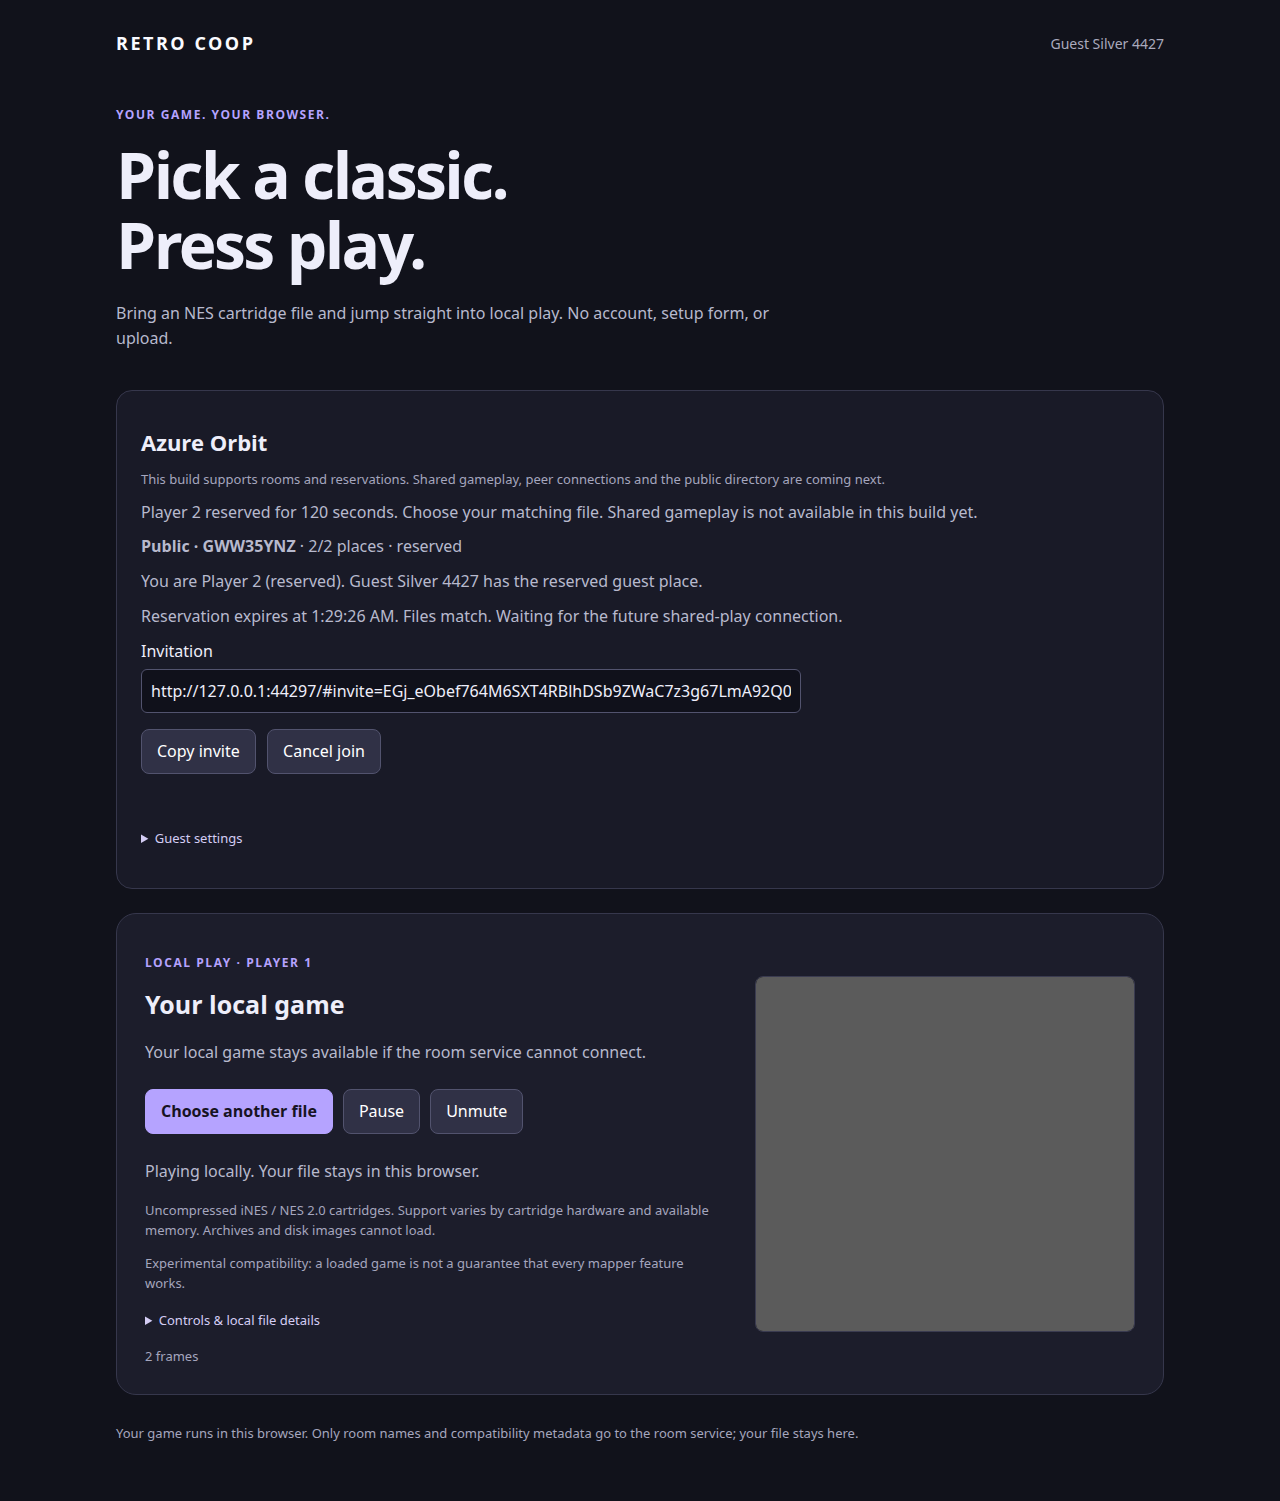
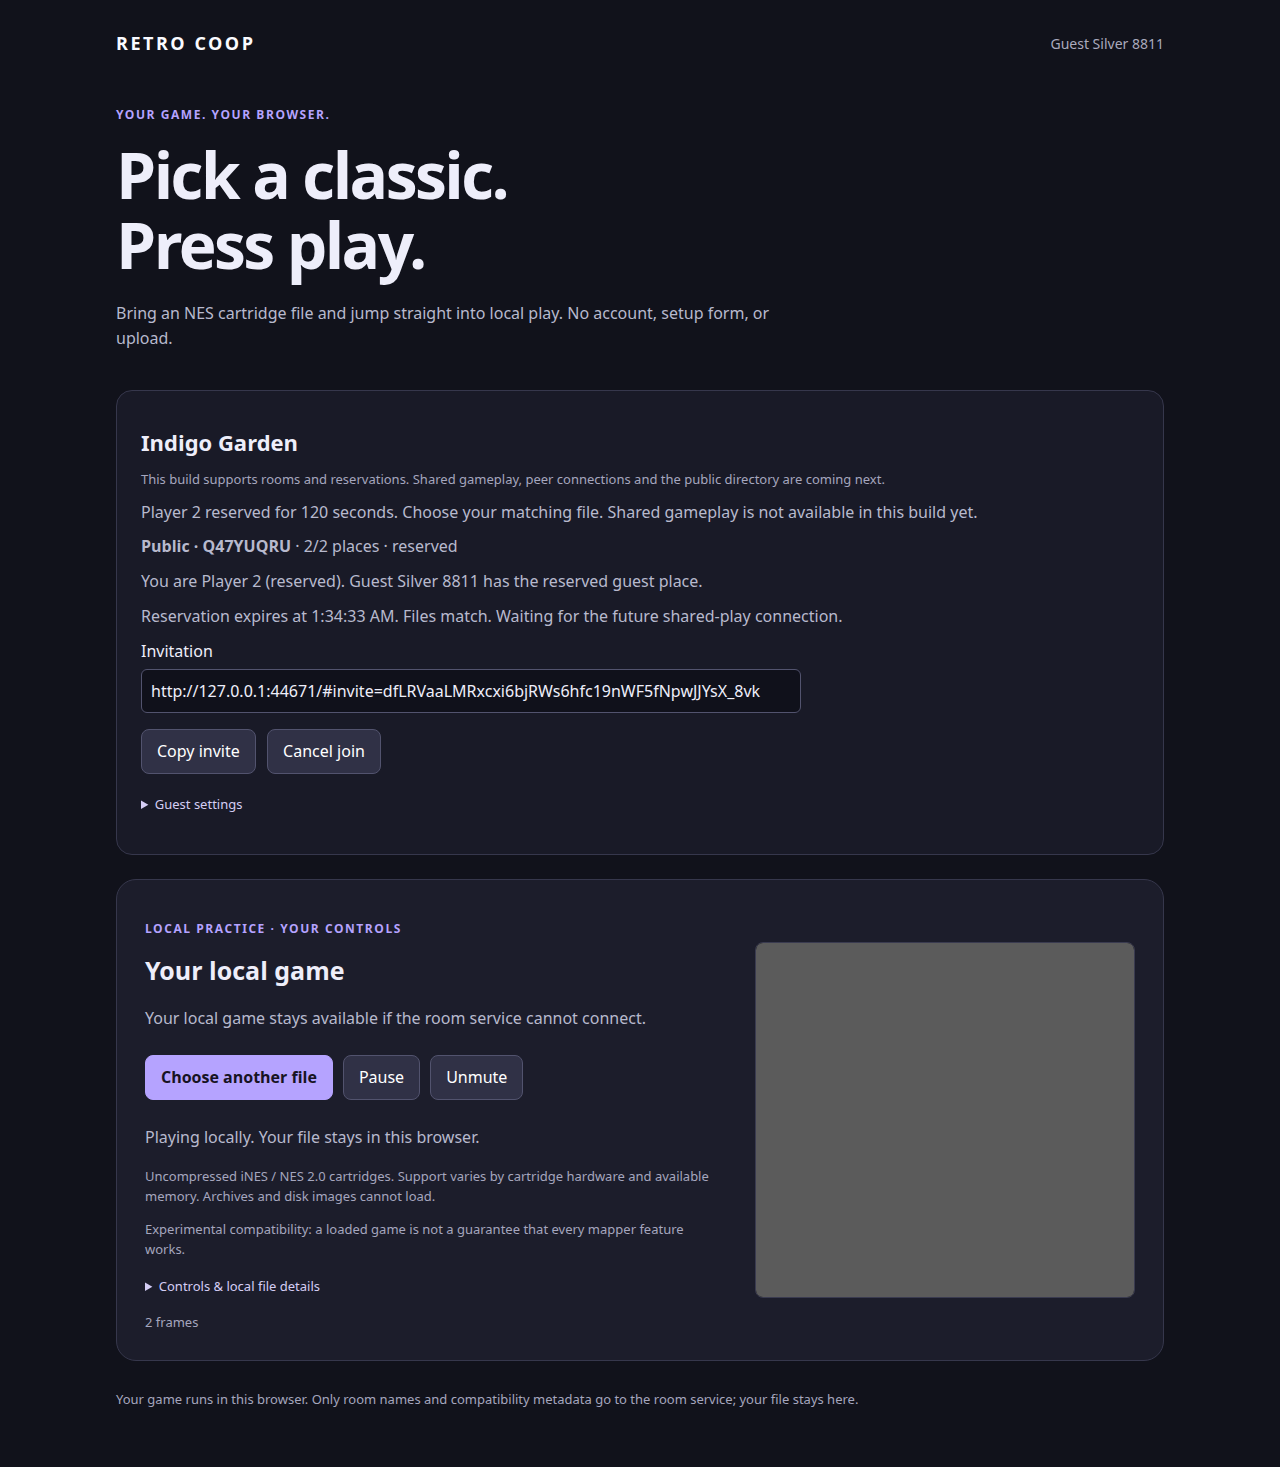
fix: preserve hosted rooms on matching-file recovery and bound floods

diff --git a/apps/client/src/style.css b/apps/client/src/style.css
@@ -1,3 +1,5 @@
 :root{font-family:Inter,ui-sans-serif,system-ui,sans-serif;color:#eeeefa;background:#11121b;font-synthesis:none;line-height:1.55}*{box-sizing:border-box}body{margin:0}main{max-width:1120px;margin:auto;padding:30px 36px}header{display:flex;justify-content:space-between;gap:16px;align-items:center;color:#aaaabd;font-size:14px}.brand{font-size:18px;letter-spacing:.14em;color:#fafaff;text-decoration:none;font-weight:800}.intro{margin:74px 0 40px;max-width:660px}.eyebrow{color:#b5a3ff;text-transform:uppercase;letter-spacing:.13em;font-size:12px;font-weight:750}h1{font-size:clamp(38px,6vw,64px);line-height:1.08;letter-spacing:-.04em;margin:16px 0 22px}p{color:#b7b9cd}h2{font-size:25px;margin:10px 0}.panel{border:1px solid #36374c;background:#1c1d2b;border-radius:20px;padding:28px;display:grid;grid-template-columns:1fr 320px;gap:34px}.controls{display:flex;gap:10px;flex-wrap:wrap;margin:25px 0}button{font:inherit;border:1px solid #52536e;background:#303146;color:white;padding:9px 15px;border-radius:8px;cursor:pointer}button:first-child{background:#b5a3ff;color:#171323;font-weight:750;border-color:#b5a3ff}button:disabled{opacity:.45;cursor:default}:focus-visible{outline:3px solid #d2c7ff;outline-offset:4px}canvas{width:100%;align-self:center;aspect-ratio:256/240;background:#0a0b10;image-rendering:pixelated;border-radius:8px;border:1px solid #3a3b50}.hint,output,footer{font-size:13px;color:#a5a6be}footer{margin:28px 0}output{font-variant-numeric:tabular-nums}@media(max-width:720px){main{padding:22px}.intro{margin-top:48px}.panel{grid-template-columns:1fr;padding:22px;gap:20px}canvas{max-width:384px;justify-self:center}header span{font-size:12px}}
 .panel.drag{border-color:#b5a3ff;box-shadow:0 0 0 3px #b5a3ff44}.screen{position:relative;align-self:center}.screen canvas{display:block}.screen>p{position:absolute;inset:34% 10% auto;text-align:center;letter-spacing:.08em;font-size:12px;pointer-events:none}.screen>p span{font-size:11px;letter-spacing:0;color:#898ba7}details{margin:16px 0;font-size:13px}summary{cursor:pointer;color:#d4cdf4}dl{font-size:12px}dt{color:#aaaabd;margin-top:10px}dd{margin:2px 0;overflow-wrap:anywhere}output{display:block;margin-top:12px}.panel{grid-template-columns:minmax(0,1fr) minmax(240px,380px)}@media(max-width:720px){.panel{grid-template-columns:minmax(0,1fr)}.screen{width:100%;max-width:384px;justify-self:center}header{flex-wrap:wrap}}
 .room-panel{border:1px solid #36374c;border-radius:16px;padding:24px;margin:0 0 24px;background:#191a27}.room-panel h2{font-size:22px}.room-panel p{margin:10px 0}.room-panel input:not([type=checkbox]){display:block;width:100%;max-width:660px;background:#10111b;color:#eeeefa;border:1px solid #52536e;padding:9px;border-radius:6px;font:inherit;margin:5px 0 12px}.room-panel button{margin:4px 8px 4px 0}.visibility{display:flex;align-items:center;gap:8px}.room-panel details>label{display:block;margin-top:14px}.room-panel details>label.visibility{display:flex}.intro{margin-top:48px}
+
+.room-panel .controls:empty{display:none}

diff --git a/apps/client/src/main.tsx b/apps/client/src/main.tsx
@@ -22,7 +22,7 @@ function App() {
   <section className="intro"><p className="eyebrow">Your game. Your browser.</p><h1>Pick a classic.<br/>Press play.</h1><p>Bring an NES cartridge file and jump straight into local play. No account, setup form, or upload.</p></section>
   <RoomPanel ref={rooms} fingerprint={state.fingerprint} onNickname={setGuest}/>
   <section className={`panel ${drag ? 'drag' : ''}`} aria-labelledby="player-title" onDragOver={event => {event.preventDefault(); setDrag(true);}} onDragLeave={event => {if(!event.currentTarget.contains(event.relatedTarget as Node)) setDrag(false);}} onDrop={event => {event.preventDefault();setDrag(false);if(event.dataTransfer.files.length === 1) load(event.dataTransfer.files[0]); else runtime.current?.rejectSelection('Choose one NES cartridge at a time. Your previous game is preserved.');}}>
-   <div><p className="eyebrow">Local play · Player 1</p><h2 id="player-title">{state.loaded ? 'Your local game' : 'Drop your NES game here'}</h2>
+   <div><p className="eyebrow">Local practice · your controls</p><h2 id="player-title">{state.loaded ? 'Your local game' : 'Drop your NES game here'}</h2>
    <p>{state.loaded ? 'Your local game stays available if the room service cannot connect.' : 'Choose a file, or drop it anywhere in this panel. Your file stays on this device.'}</p>
    <input ref={picker} type="file" accept=".nes" hidden aria-label="NES cartridge file" onChange={event => load(event.target.files?.[0])}/>
    <div className="controls"><button onClick={choose}>{state.loaded ? 'Choose another file' : 'Choose NES file'}</button>{state.loading && <button onClick={() => {runtime.current?.cancel();rooms.current?.cancelCreation();}}>Cancel loading</button>}<button disabled={!state.loaded || state.loading} onClick={() => state.running ? runtime.current?.pause() : runtime.current?.resume()}>{state.running ? 'Pause' : 'Resume'}</button><button aria-pressed={muted} onClick={() => {const value = !muted;setMuted(value);runtime.current?.setMuted(value);}}>{muted ? 'Unmute' : 'Mute'}</button></div>

diff --git a/apps/client/src/room-client.ts b/apps/client/src/room-client.ts
@@ -1,4 +1,5 @@
 import { clientConfig } from './config.ts';
+import {matchesFile} from '../../../packages/contracts/src/rooms.ts';
 import type { Fingerprint, RoomCommand, RoomData, RoomEvent, RoomPreview, RoomView, SessionInfo, Visibility } from '../../../packages/contracts/src/rooms.ts';
 type Command = RoomCommand extends infer T ? T extends RoomCommand ? Omit<T,'requestId'> : never : never;
 export type RoomState = { room?:RoomView; preview?:RoomPreview; session?:SessionInfo; status:string; busy:boolean; connected:boolean; retryAfterMs?:number; needsNewGuest?:boolean };
@@ -70,7 +71,11 @@ export class RoomClient {
   this.publish({busy:true,status:'Creating your room…',retryAfterMs:undefined});
   try {
    await this.connect();if(this.intent !== intent || generation !== this.generation) return;
-   if(this.state.room) {if(this.state.room.role !== 'host') return;await this.request({type:'close'});if(this.intent !== intent) return;}
+   if(this.state.room) {
+    if(this.state.room.role !== 'host') {this.intent = undefined;this.publish({busy:false});return;}
+    if(matchesFile(this.state.room.fingerprint,fingerprint)) {this.intent = undefined;this.publish({busy:false,status:'Your local file matches the existing room. Its guest reservation is preserved.'});return;}
+    await this.request({type:'close'});if(this.intent !== intent) return;
+   }
    await this.request({type:'create',intent,visibility,fingerprint});
    if(this.intent !== intent) {await this.request({type:'cancelCreate',intent});return;}
    const data = await this.request({type:'confirmCreate',intent});

diff --git a/apps/coordinator/src/rooms.test.ts b/apps/coordinator/src/rooms.test.ts
@@ -96,6 +96,7 @@ test('real WebSockets enforce origin/auth/schema and atomic reservations across 
   const race = await Promise.all([a,b].map(socket=>request(socket,{type:'join',invite})));assert.equal(race.filter(result=>result.ok).length,1);
   const attacker = await connect(), closed = once(attacker,'close');attacker.send(Buffer.from('binary ROM'));assert.equal((await closed)[0],1008);
   const forged = await connect(), invalid = once(forged,'close');forged.send(JSON.stringify({type:'hello',requestId:randomUUID(),filename:'private.nes'}));assert.equal((await invalid)[0],1008);
+  const flood = await connect(), flooded = once(flood,'close');for(let i=0;i<121;i++) flood.send(JSON.stringify({type:'hello',requestId:randomUUID()}));assert.equal((await flooded)[0],1008);
   const large = await connect(), over = once(large,'close');large.send('x'.repeat(5000));assert.equal((await over)[0],1009);
  } finally {for(const client of clients) client.terminate();await shutdown(server);}
 });

diff --git a/apps/coordinator/src/server.ts b/apps/coordinator/src/server.ts
@@ -33,10 +33,13 @@ export function createCoordinator(options: {origins?:string[]; rooms?:Rooms} = {
  });
  sockets.on('connection',ws => {
   let token:string|undefined;
+  let windowStarted = Date.now(), received = 0;
   const send:Sender = (event:RoomEvent) => {if(ws.readyState !== WebSocket.OPEN) return;if(ws.bufferedAmount > 64*1024) {ws.terminate();return;}ws.send(JSON.stringify(event));};
   const authDeadline = setTimeout(()=>ws.close(1008,'Authenticate first'),5000);authDeadline.unref();
   ws.on('error',()=>{}); // Protocol errors close the socket; content is never logged.
   ws.on('message',(raw,binary) => {
+   if(Date.now()-windowStarted >= 10_000) {windowStarted = Date.now();received = 0;}
+   if(++received > 120) {ws.close(1008,'Message rate exceeded');return;}
    let command;
    try {if(!binary) command = parseRoomCommand(JSON.parse(raw.toString()));}catch{}
    if(!command) {ws.close(1008,'Invalid room message');return;}

diff --git a/scripts/rooms/browser_smoke.py b/scripts/rooms/browser_smoke.py
@@ -56,6 +56,14 @@ try:
         first.set_input_files('input[type=file]',{'name':'PRIVATE-GUEST-FILENAME.nes','mimeType':'application/octet-stream','buffer':rom})
         first.wait_for_function("document.querySelector('[data-testid=room-view]').textContent.includes('Files match')")
         first.screenshot(path=str(output.with_suffix('.guest.png')),full_page=True)
+        # Reloading the host and choosing the same file preserves the room and original guest lease.
+        original_reservation=first.get_by_test_id('room-view').inner_text().split('Reservation expires at ')[1].split('.')[0]
+        host.reload()
+        host.set_input_files('input[type=file]',{'name':'PRIVATE-RELOADED.nes','mimeType':'application/octet-stream','buffer':rom})
+        host.wait_for_function("document.querySelector('[data-testid=room-status]').textContent.includes('existing room')")
+        assert host.get_by_label('Room invitation',exact=True).input_value()==invitation
+        assert original_reservation in host.get_by_test_id('room-view').inner_text()
+        assert first.get_by_test_id('room-view').count()==1
         first.get_by_role('button',name='Cancel join',exact=True).click()
         first.get_by_test_id('room-view').wait_for(state='detached')
         second.get_by_role('button',name='Retry join / Join',exact=True).click()
@@ -124,7 +132,7 @@ try:
         assert not any(key in command for command in frames for key in ['rom','filename','save','state'])
         # Raw tokens are intentionally excluded from published evidence.
         counts={kind:sum(command['type']==kind for command in frames) for kind in sorted({command['type'] for command in frames})}
-        result={'result':'pass','browser':browser.version,'seconds':round(time.monotonic()-started,2),'host_file_to_room_no_extra_form':True,'public_default_and_unlisted_selection':True,'invite_preview_before_join':True,'atomic_browser_race':True,'reservation_before_file':True,'mismatch_then_match_without_ready_click':True,'cancel_releases_slot':True,'rename_plain_text':True,'visibility_removes_code':True,'close_expires_invite_preserves_local_game':True,'cancelled_stale_create_not_published':True,'offline_preserves_local_game':True,'metadata_only_websocket_requests':True,'mobile_no_overflow':True,'command_counts':counts,'page_errors':errors}
+        result={'result':'pass','browser':browser.version,'seconds':round(time.monotonic()-started,2),'host_file_to_room_no_extra_form':True,'public_default_and_unlisted_selection':True,'invite_preview_before_join':True,'atomic_browser_race':True,'reservation_before_file':True,'mismatch_then_match_without_ready_click':True,'host_reload_matching_file_preserves_room_and_lease':True,'cancel_releases_slot':True,'rename_plain_text':True,'visibility_removes_code':True,'close_expires_invite_preserves_local_game':True,'cancelled_stale_create_not_published':True,'offline_preserves_local_game':True,'metadata_only_websocket_requests':True,'mobile_no_overflow':True,'command_counts':counts,'page_errors':errors}
         output.write_text(json.dumps(result,indent=2)+'\n');print(json.dumps(result,indent=2))
         browser.close()
 finally:

diff --git a/docs/implementation/d08-rooms.md b/docs/implementation/d08-rooms.md
@@ -24,7 +24,7 @@ Use `--chrome` for installed Chrome. The room suite launches its own coordinator
 - `packages/contracts/src/rooms.ts`: strict, metadata-only message union and validation. All commands require a request ID. Unknown fields, malformed fingerprints, control characters and binary frames are rejected. The server caps frames at 4 KiB and outgoing backlog at 64 KiB; there is no ROM/save/upload endpoint.
 - `apps/coordinator/src/rooms.ts`: synchronous, in-memory ownership and transitions. Slot availability checks and claims cannot interleave. Server-generated names never use file data. Roles are host P1 and reserved guest P2; no client command promotes a reservation to established gameplay.
 - `apps/coordinator/src/server.ts`: origin-checked WebSocket upgrade and authenticated session binding. Display names cannot confer authority. Tokens and invitations each use 32 random bytes. Invitations live in URL fragments and the page sets `no-referrer`; neither invite nor token is put in coordinator URLs. Public codes contain eight unambiguous characters and are allocated with collision retries. Unlisting removes the code; unlisted rooms have no public lookup path.
-- `apps/client/src/room-client.ts` and `RoomPanel.tsx`: connection/operation lifetimes, recovery and accessible room controls. Cancellation invalidates pending intent. Creating is provisional for at most five seconds until the current client intent acknowledges it; provisional invitations cannot be previewed or joined. A held/stale create response cannot activate a cancelled room. A valid replacement game closes its old hosted room only after explicit confirmation and successful local validation. Invalid files preserve the previous game and room.
+- `apps/client/src/room-client.ts` and `RoomPanel.tsx`: connection/operation lifetimes, recovery and accessible room controls. Cancellation invalidates pending intent. Creating is provisional for at most five seconds until the current client intent acknowledges it; provisional invitations cannot be previewed or joined. A held/stale create response cannot activate a cancelled room. A valid replacement game closes its old hosted room only after explicit confirmation and successful local validation. Invalid files preserve the previous game and room. A recovered host selecting the same exact file/build reuses its room and preserves the guest’s original lease.
 
 `Fingerprint` is the existing local file/core/settings identity. Matching it satisfies only the local-file prerequisite; the UI explicitly states that shared gameplay is unavailable in this build. D10/D11 own peer connection, state-schema compatibility, automatic shared barriers and successful reservation promotion. D09 owns public directory/search subscriptions. No coordinator gameplay, peer contact, microphone request or fake Ready/Playing state is introduced here.
 
@@ -36,7 +36,7 @@ The host alone can rename, change visibility, remove the guest or close. Publish
 
 The current service admits at most 20 rooms, 100 sockets and 1,000 idle-capable sessions. Unused sessions expire after 24 hours. Each transport address has at most 20 concurrent sockets and 30 upgrade attempts per minute; the address table is capped at 1,000 entries and expires idle entries. It uses the actual transport address, not client-controlled forwarding headers. A reverse proxy therefore needs a reviewed admission configuration during D24 deployment; these development defaults must not be presented as measured public capacity.
 
-Per session: five creates/minute, five joins/minute, twenty previews/minute and sixty operations/ten seconds. Rate rejection includes a retry duration. Unused cancellation tombstones and expired sessions are cleaned by a one-second sweep; kicked-token records are retained only while their sessions exist. A valid local game is retained after capacity/rate/service rejection. These are bounded starting admission settings within the existing planning envelope, not load or relay cost qualification.
+Per session: five creates/minute, five joins/minute, twenty previews/minute and sixty operations/ten seconds. A transport-level ceiling closes sockets above 120 frames/ten seconds, including repeated unauthenticated/authentication messages. Rate rejection includes a retry duration. Unused cancellation tombstones and expired sessions are cleaned by a one-second sweep; kicked-token records are retained only while their sessions exist. A valid local game is retained after capacity/rate/service rejection. These are bounded starting admission settings within the existing planning envelope, not load or relay cost qualification.
 
 The maintained transport is pinned to `ws` **8.21.3**, checked against its [official release](https://github.com/websockets/ws/releases/tag/8.21.3), with registry-current `@types/ws` **8.18.1**. Compression is disabled; no new client transport dependency is needed. CI uses pinned Node in the core job, installs the lockfile and runs both browser suites inside the existing shared 30-minute deadline. It retains `rooms.local.json` and `rooms.local.*.png` alongside existing artifacts. No long post-submit workload is added.
 
